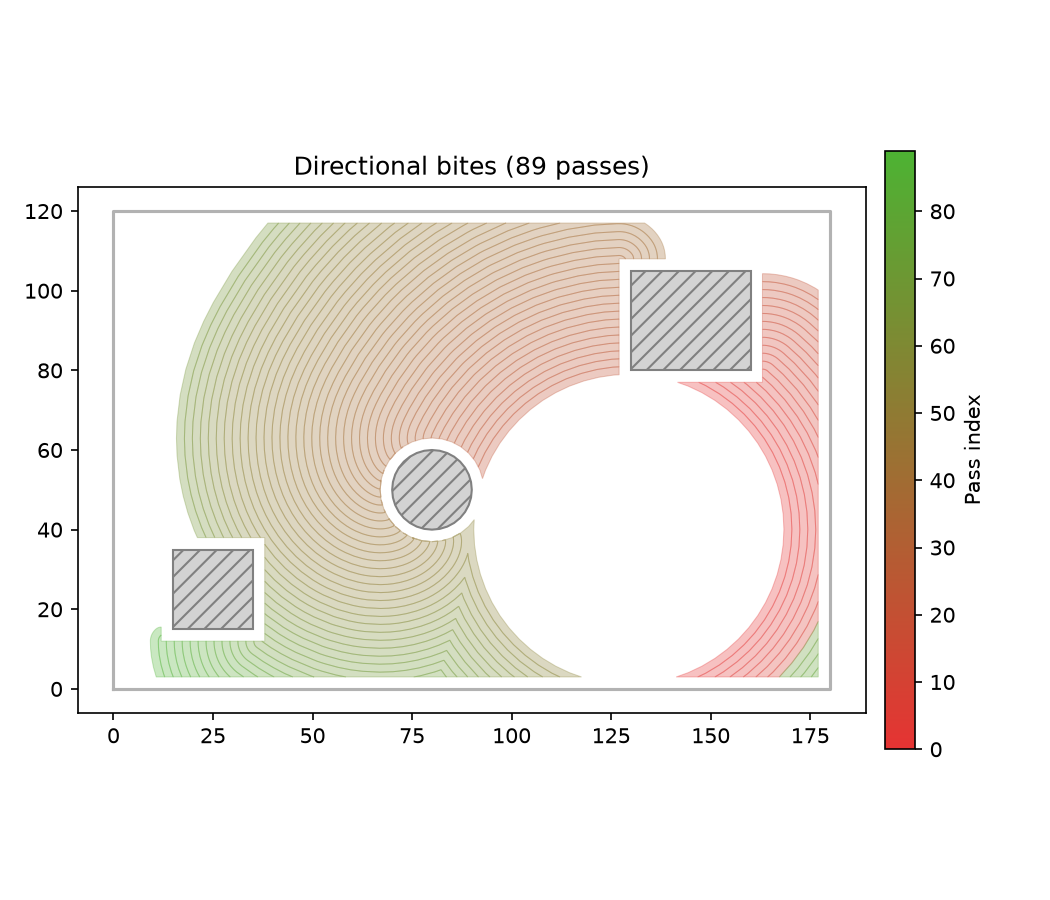
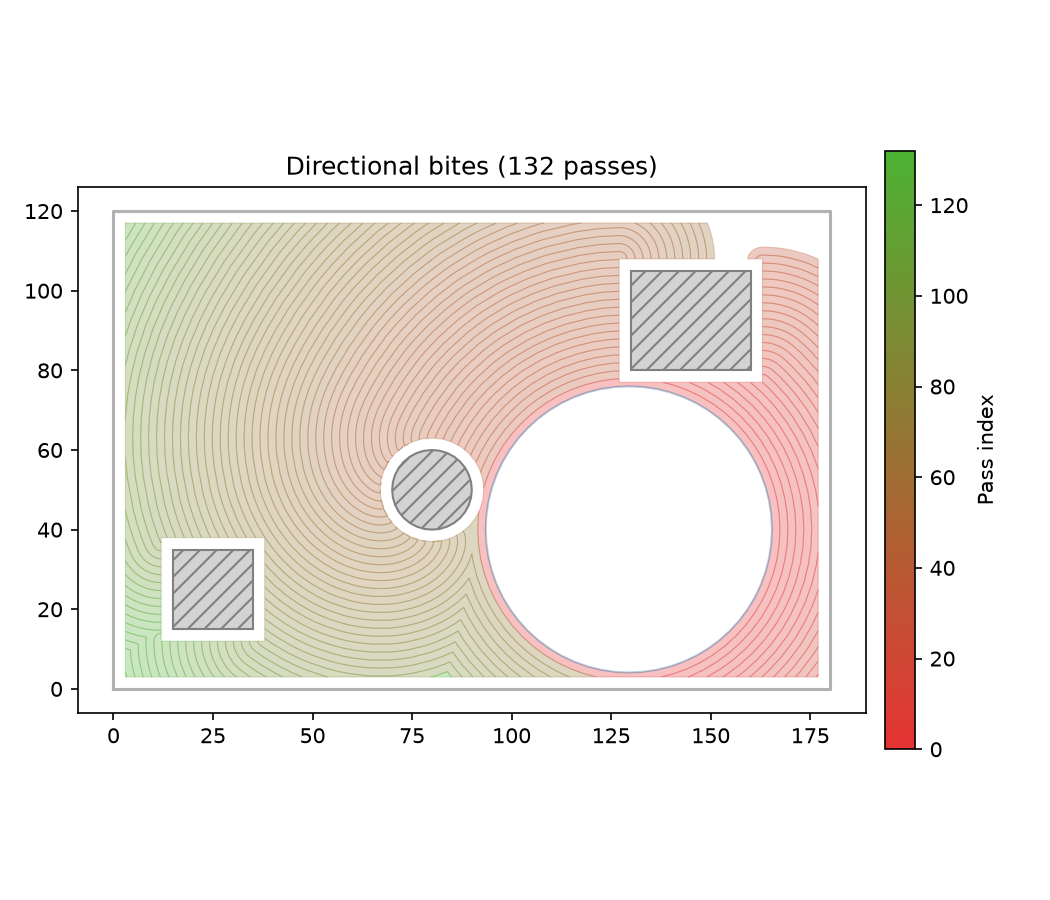
add all_bites method to ClearedArea class and corresponding tests

diff --git a/tests/geo/algo/test_geo_algo_cleared_area.py b/tests/geo/algo/test_geo_algo_cleared_area.py
@@ -277,6 +277,92 @@ def test_bite_in_direction_narrow_angle():
     assert isinstance(dir_bites, list)
 
 
+# --- all_bites ---
+
+
+def test_all_bites_empty_cleared():
+    """No cleared area — no frontier to expand from."""
+    ca = ClearedArea()
+    valid = [P((-50, -50), (50, -50), (50, 50), (-50, 50))]
+    passes = ca.all_bites(5.0, valid, 0.01)
+    assert passes == []
+
+
+def test_all_bites_already_cleared():
+    """Valid area fully covered by cleared area — nothing to bite."""
+    ca = ClearedArea()
+    poly = P((0, 0), (10, 0), (10, 10), (0, 10))
+    ca.add_cleared_polygons([poly])
+    passes = ca.all_bites(5.0, [poly], 0.01)
+    assert passes == []
+
+
+def test_all_bites_single_pass():
+    """Small valid area yields exactly one pass."""
+    ca = ClearedArea()
+    ca.add_cleared_polygons([P((0, 0), (10, 0), (10, 10), (0, 10))])
+    valid = [P((-10, -10), (20, -10), (20, 20), (-10, 20))]
+    passes = ca.all_bites(5.0, valid, 0.01)
+    assert len(passes) >= 1
+    for bite in passes[0]:
+        assert len(bite) >= 3
+
+
+def test_all_bites_multi_pass():
+    """Larger valid area requires multiple passes."""
+    ca = ClearedArea()
+    ca.add_cleared_polygons([P((40, 40), (60, 40), (60, 60), (40, 60))])
+    valid = [P((0, 0), (100, 0), (100, 100), (0, 100))]
+    passes = ca.all_bites(5.0, valid, 0.01)
+    assert len(passes) >= 2
+
+
+def test_all_bites_fully_clears():
+    """After all_bites, remaining area is near zero."""
+    ca = ClearedArea()
+    ca.add_cleared_polygons([P((40, 40), (60, 40), (60, 60), (40, 60))])
+    valid = [P((0, 0), (100, 0), (100, 100), (0, 100))]
+    ca.all_bites(5.0, valid, 0.01)
+    remaining = ca.remaining(valid)
+    total_remaining = 0.0
+    for poly in remaining:
+        n = len(poly)
+        for i in range(n):
+            x1, y1 = poly[i]
+            x2, y2 = poly[(i + 1) % n]
+            total_remaining += x1 * y2 - x2 * y1
+    total_remaining = abs(total_remaining) / 2.0
+    assert total_remaining < 1.0
+
+
+def test_all_bites_mutates_state():
+    """total_area grows after all_bites."""
+    ca = ClearedArea()
+    ca.add_cleared_polygons([P((40, 40), (60, 40), (60, 60), (40, 60))])
+    area_before = ca.total_area()
+    valid = [P((0, 0), (100, 0), (100, 100), (0, 100))]
+    passes = ca.all_bites(5.0, valid, 0.01)
+    if passes:
+        assert ca.total_area() > area_before
+
+
+def test_all_bites_pass_structure():
+    """Each pass is a list of bite polygons with valid vertices."""
+    ca = ClearedArea()
+    ca.add_cleared_polygons([P((40, 40), (60, 40), (60, 60), (40, 60))])
+    valid = [P((0, 0), (100, 0), (100, 100), (0, 100))]
+    passes = ca.all_bites(5.0, valid, 0.01)
+    assert isinstance(passes, list)
+    for pass_idx, pass_bites in enumerate(passes):
+        assert isinstance(pass_bites, list), f"pass {pass_idx} not a list"
+        for bite in pass_bites:
+            assert len(bite) >= 3
+            for v in bite:
+                assert len(v) == 2
+                assert isinstance(v[0], (int, float))
+                assert isinstance(v[1], (int, float))
+
+
 # --- remaining_in_inset ---
 
 

diff --git a/src/python/geo/algo/cleared_area.rs b/src/python/geo/algo/cleared_area.rs
@@ -200,6 +200,40 @@ impl ClearedArea {
             .collect()
     }
 
+    /// Iteratively call :py:meth:`bites` + :py:meth:`incorporate` until
+    /// the valid area is fully cleared.
+    ///
+    /// Returns all passes, each pass being a list of bite polygons.
+    /// The cleared area is fully cleared after this call.
+    /// :param step_over: lateral step-over in mm
+    /// :param valid_area: list of polygons defining the valid tool-centre region
+    /// :param simplify_tol: tolerance in mm for frontier simplification
+    /// :complexity: O(k n log n) where k = number of passes
+    pub fn all_bites(
+        &mut self,
+        step_over: f64,
+        valid_area: Vec<Vec<(f64, f64)>>,
+        simplify_tol: f64,
+    ) -> Vec<Vec<Vec<(f64, f64)>>> {
+        let valid: Vec<crate::types::Polygon> = valid_area
+            .into_iter()
+            .map(|v| {
+                v.into_iter()
+                    .map(|(x, y)| crate::types::Point::new(x, y))
+                    .collect()
+            })
+            .collect();
+        let passes = self.inner.all_bites(step_over, &valid, simplify_tol);
+        passes
+            .into_iter()
+            .map(|pass| {
+                pass.into_iter()
+                    .map(|poly| poly.into_iter().map(|p| (p.x, p.y)).collect())
+                    .collect()
+            })
+            .collect()
+    }
+
     /// :complexity: O(1)
     pub fn total_area(&self) -> f64 {
         self.inner.total_area()

diff --git a/tools/examples/geo_algo_cleared_area.py b/tools/examples/geo_algo_cleared_area.py
@@ -2,6 +2,7 @@
 
 import math
 
+import matplotlib.colors as mcolors
 import matplotlib.pyplot as plt
 
 from raygeo.geo.algo.cleared_area import ClearedArea
@@ -200,8 +201,6 @@ def generate_frontier():
 
 def generate_bites():
     """bites across 3 sequential expansion steps."""
-    import math
-
     cx, cy = 50.0, 50.0
     step_over = 8.0
     pocket = [(20, 20), (80, 20), (80, 80), (20, 80)]
@@ -305,7 +304,7 @@ def generate_bite_in_direction():
     all_bites = []
 
     for label, target in directions.items():
-        for _ in range(20):
+        for _ in range(40):
             bites = ca.bite_in_direction(
                 step_over,
                 va,
@@ -338,6 +337,12 @@ def generate_bite_in_direction():
             linewidth=1,
         )
 
+    for poly in cp:
+        px = [p[0] for p in poly] + [poly[0][0]]
+        py = [p[1] for p in poly] + [poly[0][1]]
+        ax.fill(px, py, "white", zorder=2)
+        ax.plot(px, py, "steelblue", linewidth=1, alpha=0.4, zorder=2)
+
     n = len(all_bites)
     for idx, (bite, label) in enumerate(all_bites):
         t = idx / max(n - 1, 1)
@@ -351,8 +356,6 @@ def generate_bite_in_direction():
         )
 
     ax.set_title(f"Directional bites ({n} passes)")
-
-    import matplotlib.colors as mcolors
 
     cmap = mcolors.LinearSegmentedColormap.from_list(
         "order",

diff --git a/src/geo/algo/cleared_area.rs b/src/geo/algo/cleared_area.rs
@@ -281,9 +281,33 @@ impl ClearedArea {
                 let bc = get_polygon_centroid(bite);
                 let to_bite = bc - centre;
                 let len = to_bite.length();
-                len > 1e-12 && dir.dot(to_bite / len) >= cos_max
+                len <= step_over || dir.dot(to_bite / len) >= cos_max
             })
             .collect()
+    }
+
+    /// Return all passes of isotropic bites needed to fully clear the
+    /// valid area.
+    ///
+    /// Each inner `Vec` is one pass (all bites generated from the same
+    /// frontier).  Passes are ordered from the centre of the cleared area
+    /// outward.  The cleared area is fully cleared after this call.
+    pub fn all_bites(
+        &mut self,
+        step_over: f64,
+        valid_area: &[Polygon],
+        simplify_tol: f64,
+    ) -> Vec<Vec<Polygon>> {
+        let mut passes = Vec::new();
+        loop {
+            let bites = self.bites(step_over, valid_area, simplify_tol);
+            if bites.is_empty() {
+                break;
+            }
+            passes.push(bites);
+            self.incorporate(passes.last().unwrap());
+        }
+        passes
     }
 
     /// True when any polygon in `polys` overlaps an existing fragment.

diff --git a/docs/api/raygeo.geo.algo.cleared_area.md b/docs/api/raygeo.geo.algo.cleared_area.md
@@ -31,6 +31,29 @@ add_cleared_polygons(polygons: Sequence[Sequence[tuple[float, float]]]) -> None
 _ClearedArea with bulk polygon insertion via `add_cleared_polygons` — cleared region in blue,
 remaining area in red_
 
+### `all_bites()`
+
+```python
+all_bites(
+    step_over: float,
+    valid_area: Sequence[Sequence[tuple[float, float]]],
+    simplify_tol: float,
+) -> list[list[list[tuple[float, float]]]]
+```
+
+Iteratively call **bites** + **incorporate** until the valid area is fully cleared.
+
+Returns all passes, each pass being a list of bite polygons. The cleared area is fully cleared after
+this call.
+
+| Parameter      | Type                                      | Description                                            |
+| -------------- | ----------------------------------------- | ------------------------------------------------------ |
+| `step_over`    | `float`                                   | lateral step-over in mm                                |
+| `valid_area`   | `Sequence[Sequence[tuple[float, float]]]` | list of polygons defining the valid tool-centre region |
+| `simplify_tol` | `float`                                   | tolerance in mm for frontier simplification            |
+| _Returns_      | `list[list[list[tuple[float, float]]]]`   |                                                        |
+| _Complexity_   |                                           | O(k n log n) where k = number of passes                |
+
 ### `bite_in_direction()`
 
 ```python
